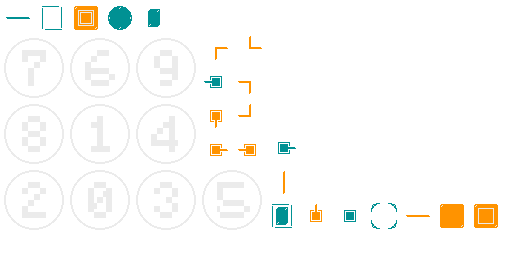
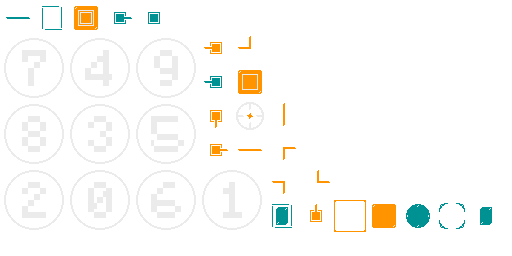
mark enemy impl done

diff --git a/core/src/main/java/com/jazzjack/rab/bit/cmiyc/render/GameAssetManager.java b/core/src/main/java/com/jazzjack/rab/bit/cmiyc/render/GameAssetManager.java
@@ -7,6 +7,7 @@ import com.badlogic.gdx.assets.loaders.resolvers.InternalFileHandleResolver;
 import com.badlogic.gdx.files.FileHandle;
 import com.badlogic.gdx.graphics.g2d.BitmapFont;
 import com.badlogic.gdx.graphics.g2d.TextureAtlas;
+import com.badlogic.gdx.graphics.g2d.TextureAtlas.AtlasRegion;
 import com.badlogic.gdx.graphics.g2d.TextureRegion;
 import com.badlogic.gdx.graphics.glutils.ShaderProgram;
 import com.badlogic.gdx.maps.tiled.TiledMap;
@@ -28,6 +29,7 @@ public class GameAssetManager extends AssetManager {
     private static final String ATLAS_REGION_AP_START = "ap-ending-left";
     private static final String ATLAS_REGION_AP_MIDDLE = "ap-horizontal";
     private static final String ATLAS_REGION_AP_END = "ap-ending-right";
+    private static final String ATLAS_REGION_ENEMY_HOVERED = "enemy-hovered";
 
     private static final String ATLAS_CMIYC_LIGHTS = "atlas/cmiyc_lights.atlas";
     private static final String ATLAS_REGION_LIGHTS_TILE_VISITED = "tile-visited";
@@ -103,44 +105,48 @@ public class GameAssetManager extends AssetManager {
         return (LevelTiledMap) get(MAP2, TiledMap.class);
     }
 
-    public TextureAtlas.AtlasRegion getSightTexture() {
+    public AtlasRegion getSightTexture() {
         return get(ATLAS_CMIYC_LIGHTS, TextureAtlas.class).findRegion(ATLAS_REGION_LIGHTS_SIGHT);
     }
 
-    public TextureAtlas.AtlasRegion getTileVisitedTexture() {
+    public AtlasRegion getTileVisitedTexture() {
         return get(ATLAS_CMIYC_LIGHTS, TextureAtlas.class).findRegion(ATLAS_REGION_LIGHTS_TILE_VISITED);
     }
 
-    public TextureAtlas.AtlasRegion getTextureForName(String name) {
+    public AtlasRegion getTextureForName(String name) {
         return get(ATLAS_CMIYC_ACTORS, TextureAtlas.class).findRegion(name);
     }
 
-    public TextureAtlas.AtlasRegion getHpFilledTexture() {
+    public AtlasRegion getHpFilledTexture() {
         return get(ATLAS_CMIYC_ACTORS, TextureAtlas.class).findRegion(ATLAS_REGION_HP_FILLED);
     }
 
-    public TextureAtlas.AtlasRegion getHpEmptyTexture() {
+    public AtlasRegion getHpEmptyTexture() {
         return get(ATLAS_CMIYC_ACTORS, TextureAtlas.class).findRegion(ATLAS_REGION_HP_EMPTY);
     }
 
-    public TextureAtlas.AtlasRegion getApStartTexture() {
+    public AtlasRegion getApStartTexture() {
         return get(ATLAS_CMIYC_ACTORS, TextureAtlas.class).findRegion(ATLAS_REGION_AP_START);
     }
 
-    public TextureAtlas.AtlasRegion getApMiddleTexture() {
+    public AtlasRegion getApMiddleTexture() {
         return get(ATLAS_CMIYC_ACTORS, TextureAtlas.class).findRegion(ATLAS_REGION_AP_MIDDLE);
     }
 
-    public TextureAtlas.AtlasRegion getApEndTexture() {
+    public AtlasRegion getApEndTexture() {
         return get(ATLAS_CMIYC_ACTORS, TextureAtlas.class).findRegion(ATLAS_REGION_AP_END);
     }
 
-    public TextureAtlas.AtlasRegion getPlayerEndTexture() {
+    public AtlasRegion getPlayerEndTexture() {
         return get(ATLAS_CMIYC_ACTORS, TextureAtlas.class).findRegion(ATLAS_REGION_PLAYER_END);
     }
 
-    public TextureAtlas.AtlasRegion getTurnsLeftTexture(int turnsLeft) {
+    public AtlasRegion getTurnsLeftTexture(int turnsLeft) {
         return get(ATLAS_CMIYC_ACTORS, TextureAtlas.class).findRegion(TURN_ATLAS_REGION_MAPPING.get(turnsLeft));
+    }
+
+    public TextureRegion getEnemyHoveredTexture() {
+        return get(ATLAS_CMIYC_ACTORS, TextureAtlas.class).findRegion(ATLAS_REGION_ENEMY_HOVERED);
     }
 
     public BitmapFont getFont() {
@@ -149,9 +155,5 @@ public class GameAssetManager extends AssetManager {
 
     public ShaderProgram getFontShaderProgram() {
         return get(SHADER_FONT, ShaderProgram.class);
-    }
-
-    public TextureRegion getEnemyHoveredTexture() {
-        return get(ATLAS_CMIYC_ACTORS, TextureAtlas.class).findRegion("enemy-hovered");
     }
 }

diff --git a/core/src/main/java/com/jazzjack/rab/bit/cmiyc/render/hud/HUDRenderer.java b/core/src/main/java/com/jazzjack/rab/bit/cmiyc/render/hud/HUDRenderer.java
@@ -6,6 +6,7 @@ import com.badlogic.gdx.graphics.g2d.Batch;
 import com.badlogic.gdx.graphics.g2d.SpriteBatch;
 import com.badlogic.gdx.graphics.g2d.TextureAtlas;
 import com.badlogic.gdx.graphics.glutils.ShapeRenderer;
+import com.jazzjack.rab.bit.cmiyc.ability.Ability;
 import com.jazzjack.rab.bit.cmiyc.item.Item;
 import com.jazzjack.rab.bit.cmiyc.level.Level;
 import com.jazzjack.rab.bit.cmiyc.render.GameAssetManager;
@@ -17,7 +18,7 @@ import static com.jazzjack.rab.bit.cmiyc.render.AlphaDrawer.alphaDrawer;
 public class HUDRenderer implements Renderer {
 
     private static final int SCALE_TO_LEVEL = 2;
-    private static final int ITEM_X_OFFSET = 10;
+    private static final int ACTIONS_X_OFFSET = 10;
 
     private final Level level;
     private final GameAssetManager assetManager;
@@ -89,7 +90,7 @@ public class HUDRenderer implements Renderer {
 
     private void renderStatusBar() {
         renderHp();
-        renderPlayerItems();
+        renderActions();
         playerApDrawer.draw(level.getPlayer());
     }
 
@@ -104,9 +105,15 @@ public class HUDRenderer implements Renderer {
         }
     }
 
-    private void renderPlayerItems() {
+    private void renderActions() {
+        int x = ACTIONS_X_OFFSET;
+        for (Ability ability : level.getPlayer().getAbilities()) {
+            batch.draw(assetManager.getTextureForName(ability.getName()), x, 0f, 1f, 1f);
+            x++;
+        }
         for (Item item : level.getPlayer().getItems()) {
-            batch.draw(assetManager.getTextureForName(item.getName()), ITEM_X_OFFSET, 0f, 1f, 1f);
+            batch.draw(assetManager.getTextureForName(item.getName()), x, 0f, 1f, 1f);
+            x++;
         }
     }
 

diff --git a/core/src/main/java/com/jazzjack/rab/bit/cmiyc/game/input/GameInputProcessor.java b/core/src/main/java/com/jazzjack/rab/bit/cmiyc/game/input/GameInputProcessor.java
@@ -1,9 +1,9 @@
 package com.jazzjack.rab.bit.cmiyc.game.input;
 
 import com.badlogic.gdx.InputProcessor;
-import com.badlogic.gdx.math.Vector3;
 import com.jazzjack.rab.bit.cmiyc.game.GameWorldCameraProvider;
-import com.jazzjack.rab.bit.cmiyc.shared.position.Position;
+import com.jazzjack.rab.bit.cmiyc.render.GameCamera;
+import com.jazzjack.rab.bit.cmiyc.shared.position.HasPosition;
 
 import java.util.Optional;
 
@@ -36,7 +36,7 @@ public class GameInputProcessor implements InputProcessor {
 
     @Override
     public boolean touchDown(int screenX, int screenY, int pointer, int button) {
-        return translateToGamePosition(screenX, screenY)
+        return getMouseGamePosition()
                 .map(mouseInputProcessor::mousePressed)
                 .orElse(false);
     }
@@ -61,10 +61,7 @@ public class GameInputProcessor implements InputProcessor {
         return false;
     }
 
-    private Optional<Position> translateToGamePosition(int screenX, int screenY) {
-        return gameWorldCameraProvider.getGameWorldCamera().map(camera -> {
-            Vector3 gameVector = camera.unproject(new Vector3(screenX, screenY, 0f));
-            return new Position((int) gameVector.x, (int) gameVector.y);
-        });
+    private Optional<HasPosition> getMouseGamePosition() {
+        return gameWorldCameraProvider.getGameWorldCamera().map(GameCamera::getMouseGamePosition);
     }
 }

diff --git a/core/src/main/java/com/jazzjack/rab/bit/cmiyc/logic/GameController.java b/core/src/main/java/com/jazzjack/rab/bit/cmiyc/logic/GameController.java
@@ -2,6 +2,8 @@ package com.jazzjack.rab.bit.cmiyc.logic;
 
 import com.badlogic.gdx.Gdx;
 import com.badlogic.gdx.Input;
+import com.jazzjack.rab.bit.cmiyc.ability.Ability;
+import com.jazzjack.rab.bit.cmiyc.actor.enemy.Enemy;
 import com.jazzjack.rab.bit.cmiyc.actor.player.PlayerProfile;
 import com.jazzjack.rab.bit.cmiyc.game.input.KeyInputProcessor;
 import com.jazzjack.rab.bit.cmiyc.game.input.MouseInputProcessor;
@@ -81,7 +83,20 @@ public class GameController implements KeyInputProcessor, MouseInputProcessor {
     @Override
     public boolean mousePressed(HasPosition position) {
         Gdx.app.debug(getClass().getSimpleName(), String.format("Mouse pressed at position %s/%s", position.getX(), position.getY()));
-        return false;
+        return currentLevel.getEnemies().stream()
+                .filter(enemy -> enemy.hasSamePositionAs(position))
+                .findAny()
+                .map(this::markEnemy)
+                .orElse(false);
+    }
+
+    private boolean markEnemy(Enemy enemy) {
+        if (currentLevel.getPlayer().useAbility(Ability.MARK)) {
+            enemy.mark();
+            return true;
+        } else {
+            return false;
+        }
     }
 
     private boolean handlePlayerKeys(int keycode) {

diff --git a/core/src/main/java/com/jazzjack/rab/bit/cmiyc/render/GameRenderer.java b/core/src/main/java/com/jazzjack/rab/bit/cmiyc/render/GameRenderer.java
@@ -1,7 +1,6 @@
 package com.jazzjack.rab.bit.cmiyc.render;
 
 import com.badlogic.gdx.Gdx;
-import com.badlogic.gdx.graphics.Camera;
 import com.badlogic.gdx.graphics.GL20;
 import com.jazzjack.rab.bit.cmiyc.event.GameEventBus;
 import com.jazzjack.rab.bit.cmiyc.game.GameWorldCameraProvider;
@@ -28,7 +27,7 @@ public class GameRenderer implements Renderer, NewLevelSubscriber, GameWorldCame
     }
 
     @Override
-    public Optional<Camera> getGameWorldCamera() {
+    public Optional<GameCamera> getGameWorldCamera() {
         return levelRenderer != null ? Optional.of(levelRenderer.getCamera()) : Optional.empty();
     }
 

diff --git a/core/src/main/java/com/jazzjack/rab/bit/cmiyc/item/Item.java b/core/src/main/java/com/jazzjack/rab/bit/cmiyc/item/Item.java
@@ -2,21 +2,15 @@ package com.jazzjack.rab.bit.cmiyc.item;
 
 public enum Item {
 
-    HP("item-hp"), SHIELD("item-shield");
-
-    private final String name;
-
-    Item(String name) {
-        this.name = name;
-    }
+    HP, SHIELD;
 
     public String getName() {
-        return name;
+        return "item-" + name().toLowerCase();
     }
 
     public static Item forName(String name) {
         for (Item item : values()) {
-            if (item.name.equalsIgnoreCase(name)) {
+            if (item.getName().equalsIgnoreCase(name)) {
                 return item;
             }
         }

diff --git a/core/src/main/java/com/jazzjack/rab/bit/cmiyc/render/level/LevelRenderer.java b/core/src/main/java/com/jazzjack/rab/bit/cmiyc/render/level/LevelRenderer.java
@@ -1,6 +1,5 @@
 package com.jazzjack.rab.bit.cmiyc.render.level;
 
-import com.badlogic.gdx.graphics.Camera;
 import com.badlogic.gdx.graphics.g2d.Batch;
 import com.badlogic.gdx.graphics.g2d.SpriteBatch;
 import com.badlogic.gdx.graphics.g2d.TextureRegion;
@@ -45,7 +44,7 @@ public class LevelRenderer extends OrthoCachedTiledMapRenderer implements Render
         this.fogOfWarRenderer = new FogOfWarRenderer(this.level, this.batch, assetManager);
     }
 
-    public Camera getCamera() {
+    public LevelCamera getCamera() {
         return camera;
     }
 

diff --git a/core/src/main/java/com/jazzjack/rab/bit/cmiyc/actor/player/Player.java b/core/src/main/java/com/jazzjack/rab/bit/cmiyc/actor/player/Player.java
@@ -107,6 +107,10 @@ public class Player extends MovableActor implements HasPower {
         }
     }
 
+    public List<Ability> getAbilities() {
+        return playerProfile.getAbilities();
+    }
+
     public boolean useAbility(Ability ability) {
         if (playerProfile.hasAbility(ability) && hasEnoughActionPointsFor(ability)) {
             actionPointsConsumed += ability.getCost();

diff --git a/core/src/main/java/com/jazzjack/rab/bit/cmiyc/game/GameWorldCameraProvider.java b/core/src/main/java/com/jazzjack/rab/bit/cmiyc/game/GameWorldCameraProvider.java
@@ -1,10 +1,10 @@
 package com.jazzjack.rab.bit.cmiyc.game;
 
-import com.badlogic.gdx.graphics.Camera;
+import com.jazzjack.rab.bit.cmiyc.render.GameCamera;
 
 import java.util.Optional;
 
 public interface GameWorldCameraProvider {
 
-    Optional<Camera> getGameWorldCamera();
+    Optional<GameCamera> getGameWorldCamera();
 }

diff --git a/core/src/main/java/com/jazzjack/rab/bit/cmiyc/actor/enemy/Enemy.java b/core/src/main/java/com/jazzjack/rab/bit/cmiyc/actor/enemy/Enemy.java
@@ -66,6 +66,10 @@ public class Enemy extends MovableActor implements HasPower {
         return marked;
     }
 
+    public void mark() {
+        marked = true;
+    }
+
     public void generateRoutes() {
         routes.clear();
         routes.addAll(context.getRouteGenerator().generateRoutes(this, 4));

diff --git a/core/src/main/java/com/jazzjack/rab/bit/cmiyc/ability/Ability.java b/core/src/main/java/com/jazzjack/rab/bit/cmiyc/ability/Ability.java
@@ -16,4 +16,8 @@ public enum Ability implements HasCost {
     public int getCost() {
         return cost;
     }
+
+    public String getName() {
+        return "ability-" + name().toLowerCase();
+    }
 }
